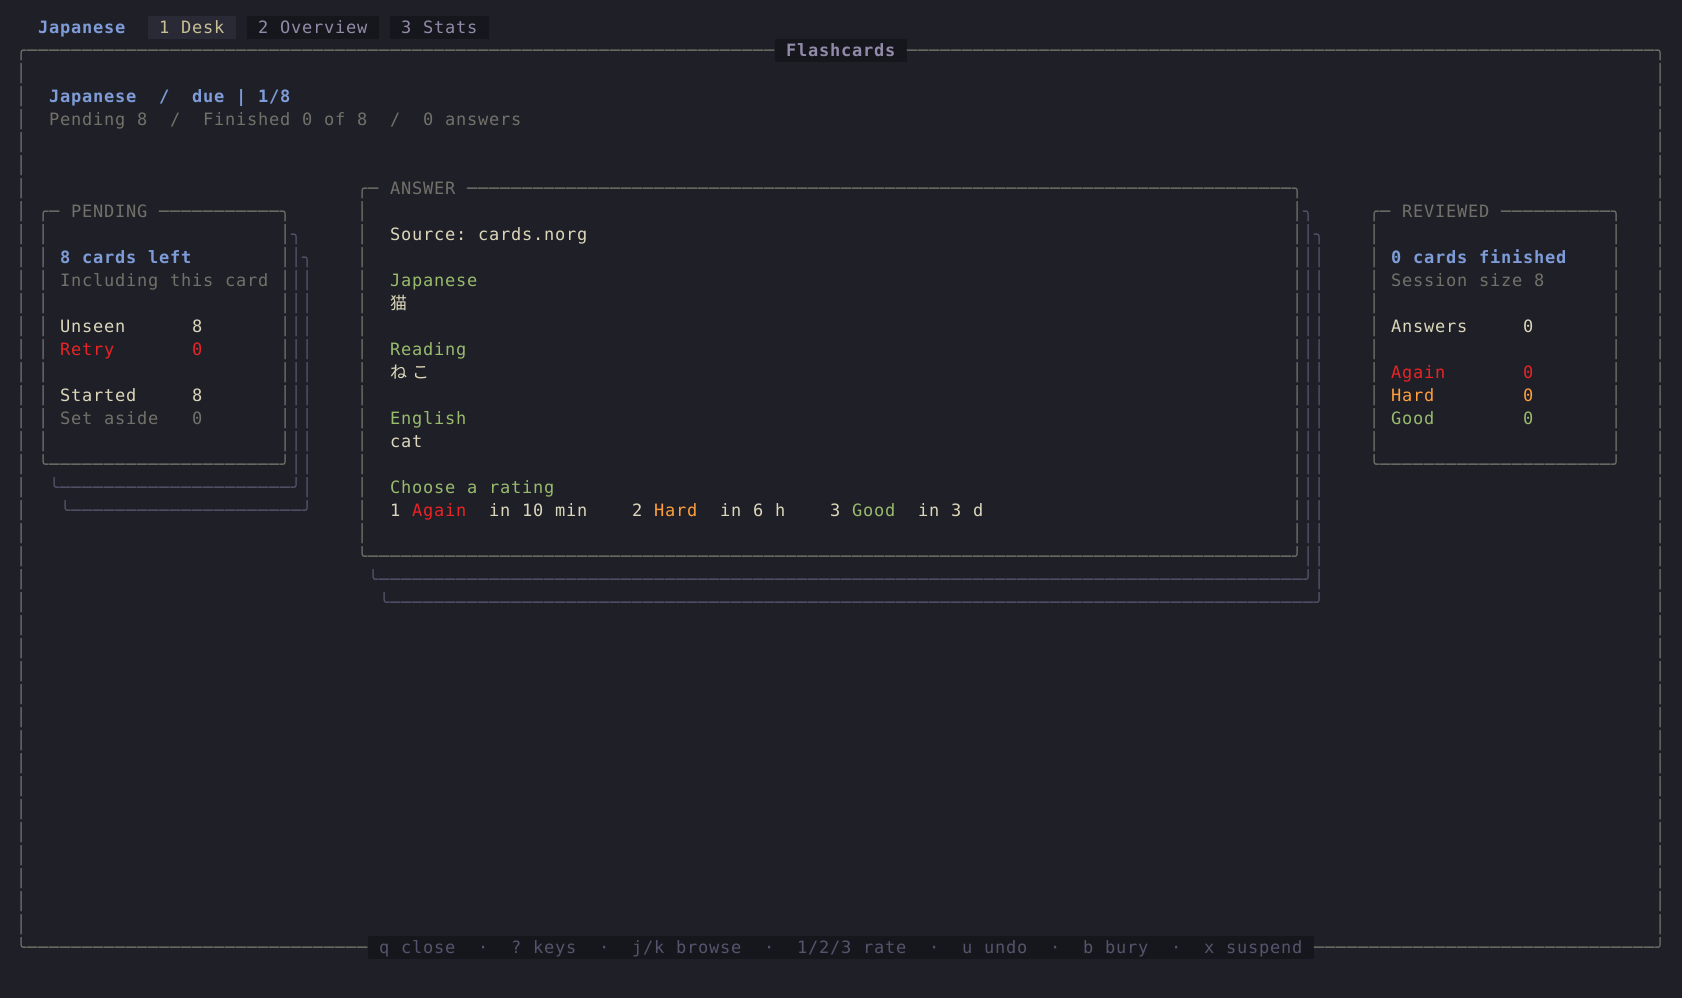
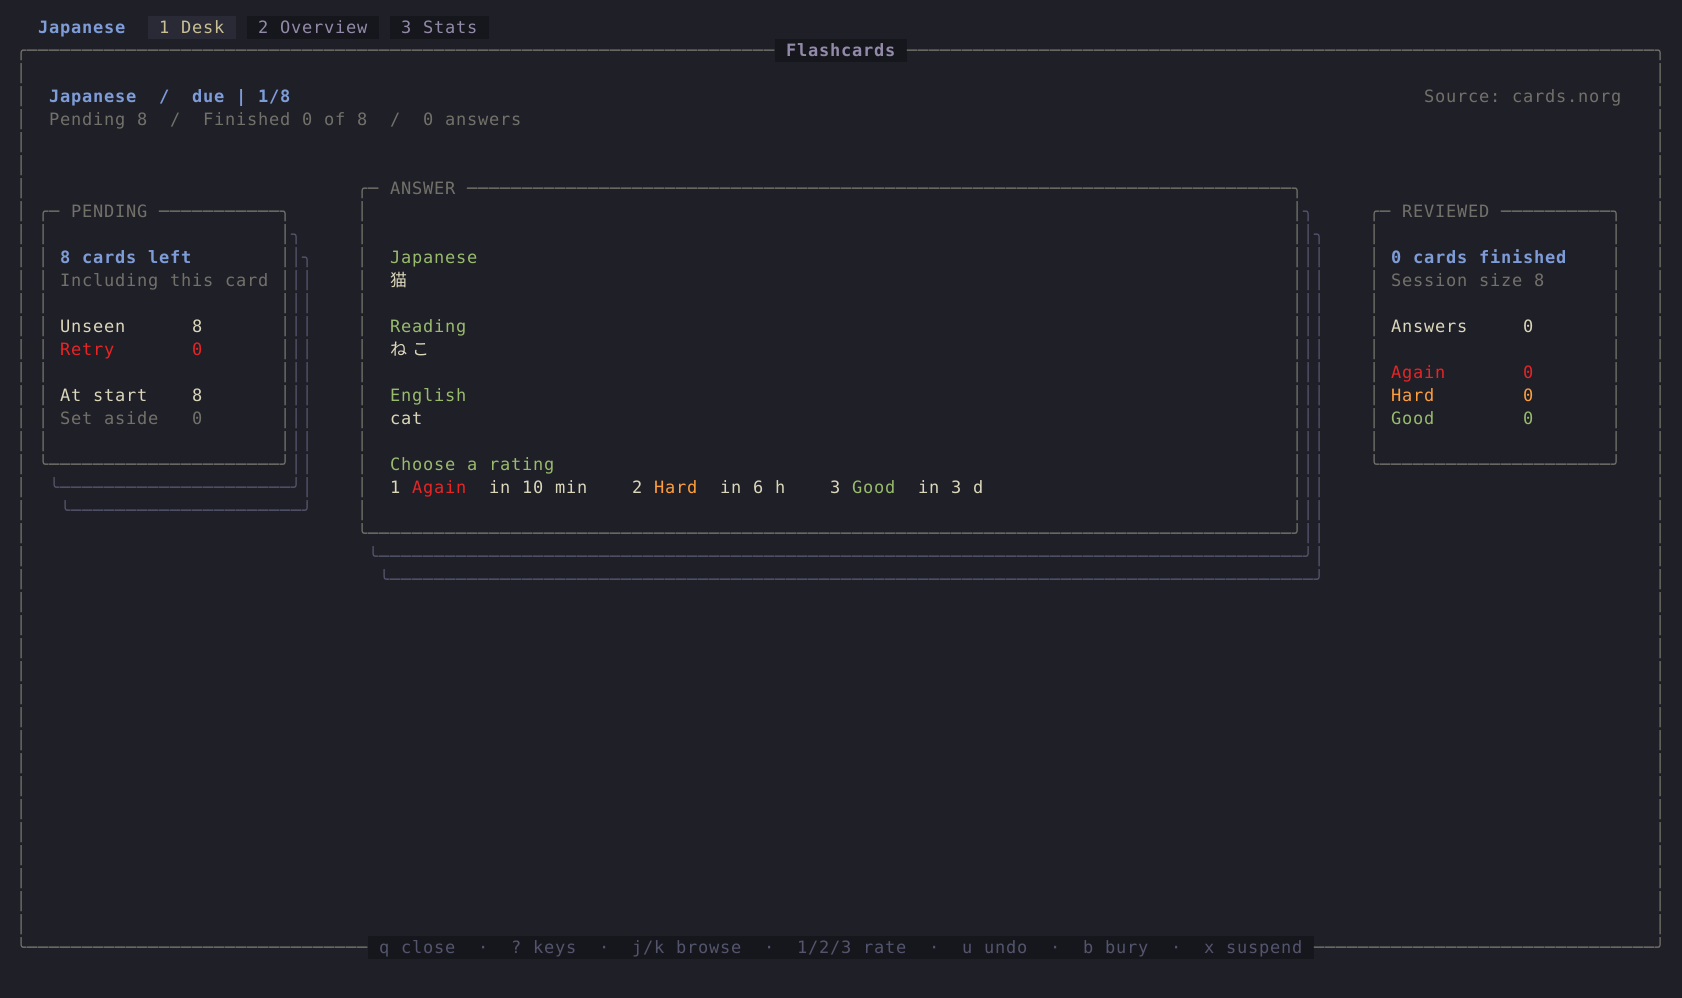
Move source filenames out of the study card and clarify pause controls

diff --git a/README.md b/README.md
@@ -302,7 +302,9 @@ change; overdue cards stay in today's backlog.
 
 The main area shows totals, streaks, retention, card states, median answer
 time, heatmap, seven-day forecast, and Needs attention beside the compact
-calendar. `Ctrl-D/U` scrolls analytics; `Ctrl-W w` focuses the day details.
+calendar. `Ctrl-D` / `Ctrl-U` scroll down/up, and `G` / `gg` go to the
+bottom/top. These keys leave the selected date unchanged. `Ctrl-W w` switches
+between analytics and day details; scrolling affects the focused pane.
 Weekly card-days count a card once per day; they are not a
 count of distinct cards across the week. Retention means Hard or Good as a
 percentage of effective ratings. Recorded answer time includes time with a
@@ -518,9 +520,15 @@ pending attempts from cards reviewed in this session. A finished receipt shows
 unique cards and answer counts separately; `u` undoes the last rating, `Enter`
 returns to the desk, and `s` opens Stats.
 
-Pressing a rating before reveal reveals the answer first. The revealed card
-shows the next interval beside each rating. An Again card is requeued only once
-per session, so Again cannot create an endless retry loop.
+The source filename appears in muted workspace chrome, outside the study card.
+The revealed card shows the next interval beside each rating. An Again card is
+requeued only once per session, so Again cannot create an endless retry loop.
+
+Bury (`b`) sets a card aside until the next local midnight. It becomes eligible
+again automatically, subject to its existing due date. Suspend (`x`) excludes
+the card until you resume it with `x` in Overview. You can unbury a card early
+with `b` there too. Both actions remove it from the current review and preserve
+its content, learning schedule and history. They do not count as ratings.
 
 Typed answers are intended for short answers and are opt-in per field.
 Comparison ignores case, outside spaces, and repeated whitespace, then chooses

diff --git a/docs/demo/README.md b/docs/demo/README.md
@@ -22,7 +22,9 @@ are demonstration data, not an actual person's study record.
 | Light Desk | 100 × 32 | peachpuff | [Light desk](desk-light.png) |
 | ASCII Desk | 80 × 24 | peachpuff | [ASCII desk](desk-ascii.png) |
 | Revealed card and session stacks | 150 × 42 | Kanagawa | [Study](study.png) |
+| Compact card with source outside its border | 70 × 24 | peachpuff | [Compact study](study-compact.png) |
 | Calendar and main analytics | 180 × 42 | Kanagawa | [Stats](calendar.png) |
+| Analytics after Ctrl-D | 122 × 30 | Kanagawa | [Scrolled Stats](stats-scrolled.png) |
 | Compact ASCII calendar | 80 × 24 | peachpuff | [Compact Stats](calendar-compact.png) |
 | Chapter management | 150 × 38 | Kanagawa | [Chapters](chapters.png) |
 | Cards within a chapter | 150 × 38 | Kanagawa | [Cards](overview.png) |
@@ -39,6 +41,12 @@ The native probe caught a Unicode cursor offset and singular stack labels.
 The final stack shows six unseen cards, one retry, one finished card, and
 Again 1 / Hard 0 / Good 1. The smaller Stats layout retains all three rating
 totals above the fold and adds weekly comparisons alongside the calendar.
+
+The latest grid captures show the source filename in muted workspace chrome,
+outside the question/answer card, and the visible `Ctrl-D/U scroll` hint.
+Keyboard tests exercise Ctrl-D, Ctrl-U, G and gg in the main Stats pane and
+verify that scrolling leaves the selected calendar day unchanged. The native
+Kitty images above predate these two small placement/hint changes.
 
 Small desks scroll to later notes and the progress panel. The header retains
 today's progress. A 60 × 20 interaction regression checks paging past the last

diff --git a/docs/workspace-refinement.md b/docs/workspace-refinement.md
@@ -40,3 +40,9 @@ Two fresh silent probes preserve the revised interface and its subsequent
 visual corrections. The final probe passes hash, frame-timing and full-decode
 checks. Earlier footage needs a continuity/retake audit; narration and chapter
 assembly remain production work. No publication or system activation occurred.
+
+Further local testing exposed that the Stats ribbon dropped its scrolling
+hint in narrow panes. It now keeps `Ctrl-D/U scroll` visible, with real keyboard
+coverage for paging and top/bottom navigation. The source filename moved from
+the study card to muted workspace chrome. Help and documentation explain
+burying until local midnight and suspending until manually resumed.

diff --git a/CHANGELOG.md b/CHANGELOG.md
@@ -4,6 +4,10 @@ All notable changes to this project will be documented here.
 
 ## 0.3.0 - Unreleased
 
+- Kept Stats scrolling controls visible in narrow shortcut ribbons and moved
+  review source filenames into workspace chrome outside the study card.
+  Clarified the difference between burying until tomorrow and suspending until
+  manually resumed.
 - Added a collection → chapter → card manager with contextual create, rename,
   move, and confirmed removal. Chapters are independent of filenames and tags;
   existing cards appear in Unfiled. Chapter-from-tag preserves the source tags.
